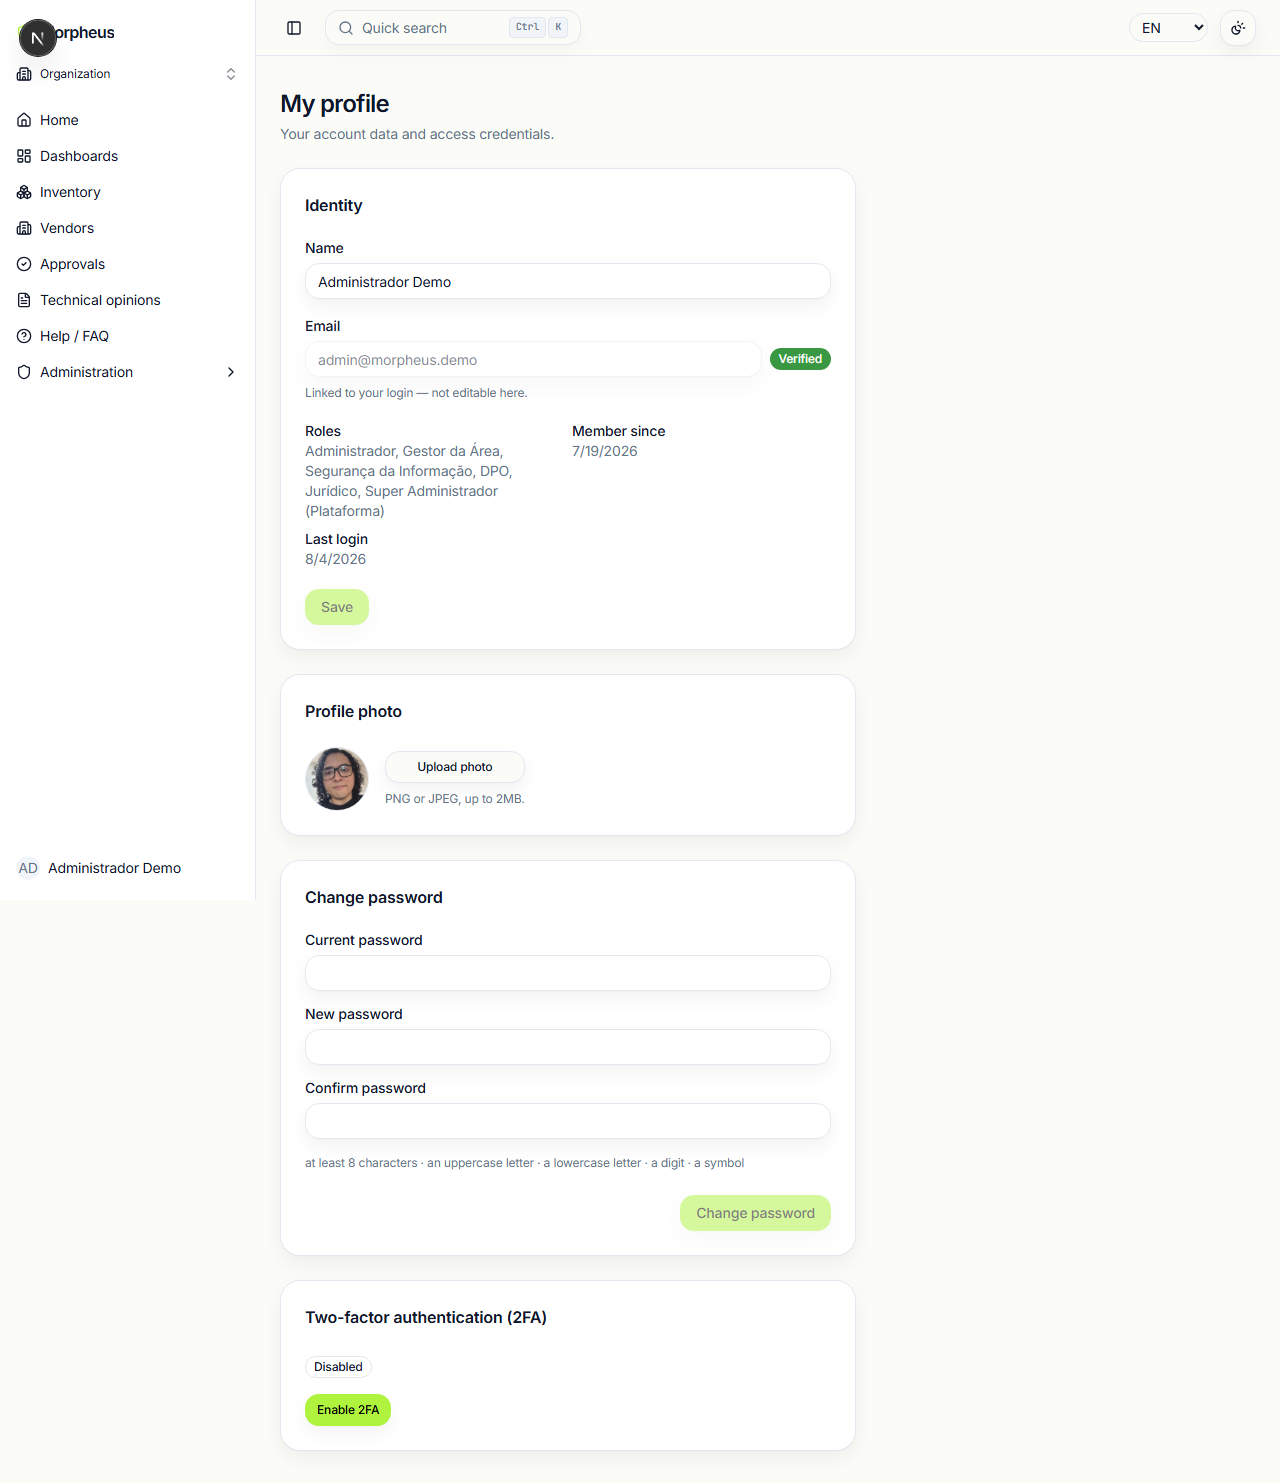
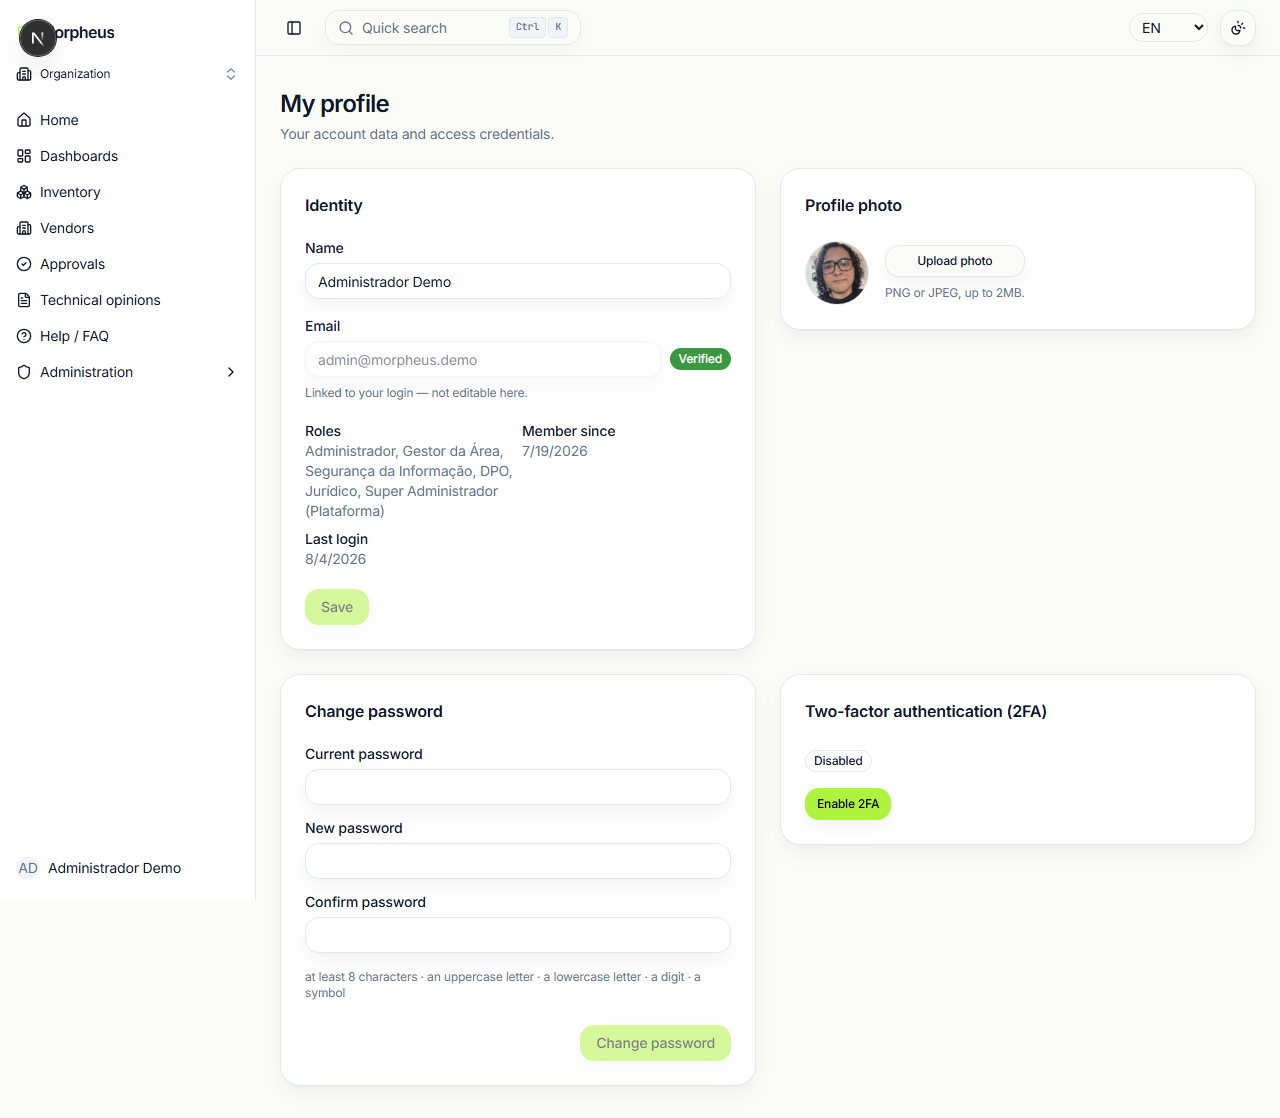
feat(profile): grade responsiva em /profile e /admin/platform-policy
Substitui a pilha vertical de cards por um grid de 2 colunas
(items-start, não stretch, pra acomodar a altura variável do card de
2FA) - reduz o scroll sem esconder nada atrás de aba. Mesmo
tratamento aplicado a /admin/platform-policy (3 seções, mesmo
sintoma). Corrige de brinde um bug pequeno: o loader não esperava
passwordlessPolicy carregar. Screenshots do README regenerados
(mudança de UX).

diff --git a/apps/web/src/app/[locale]/(app)/admin/platform-policy/page.tsx b/apps/web/src/app/[locale]/(app)/admin/platform-policy/page.tsx
@@ -260,43 +260,41 @@ function PlatformPolicyContent() {
 
       {error && <p className="text-sm text-destructive">{error}</p>}
 
-      {!error && (!policy || !twoFactorPolicy) && (
+      {!error && (!policy || !twoFactorPolicy || !passwordlessPolicy) && (
         <div className="flex justify-center py-8">
           <Loader2 className="animate-spin text-muted-foreground" />
         </div>
       )}
 
-      {policy && (
-        <Card className="max-w-xl">
-          <CardHeader>
-            <CardTitle className="text-base">{t("cardTitle")}</CardTitle>
-          </CardHeader>
-          <CardContent>
-            <PasswordPolicyForm policy={policy} onSaved={setPolicy} />
-          </CardContent>
-        </Card>
-      )}
+      {policy && twoFactorPolicy && passwordlessPolicy && (
+        <div className="grid grid-cols-1 items-start gap-6 lg:grid-cols-2">
+          <Card>
+            <CardHeader>
+              <CardTitle className="text-base">{t("cardTitle")}</CardTitle>
+            </CardHeader>
+            <CardContent>
+              <PasswordPolicyForm policy={policy} onSaved={setPolicy} />
+            </CardContent>
+          </Card>
 
-      {twoFactorPolicy && (
-        <Card className="max-w-xl">
-          <CardHeader>
-            <CardTitle className="text-base">{t("twoFactorCardTitle")}</CardTitle>
-          </CardHeader>
-          <CardContent>
-            <TwoFactorPolicyForm policy={twoFactorPolicy} onSaved={setTwoFactorPolicy} />
-          </CardContent>
-        </Card>
-      )}
+          <Card>
+            <CardHeader>
+              <CardTitle className="text-base">{t("twoFactorCardTitle")}</CardTitle>
+            </CardHeader>
+            <CardContent>
+              <TwoFactorPolicyForm policy={twoFactorPolicy} onSaved={setTwoFactorPolicy} />
+            </CardContent>
+          </Card>
 
-      {passwordlessPolicy && (
-        <Card className="max-w-xl">
-          <CardHeader>
-            <CardTitle className="text-base">{t("passwordlessCardTitle")}</CardTitle>
-          </CardHeader>
-          <CardContent>
-            <PasswordlessPolicyForm policy={passwordlessPolicy} onSaved={setPasswordlessPolicy} />
-          </CardContent>
-        </Card>
+          <Card>
+            <CardHeader>
+              <CardTitle className="text-base">{t("passwordlessCardTitle")}</CardTitle>
+            </CardHeader>
+            <CardContent>
+              <PasswordlessPolicyForm policy={passwordlessPolicy} onSaved={setPasswordlessPolicy} />
+            </CardContent>
+          </Card>
+        </div>
       )}
     </div>
   );

diff --git a/apps/web/src/app/[locale]/(app)/profile/page.tsx b/apps/web/src/app/[locale]/(app)/profile/page.tsx
@@ -98,7 +98,7 @@ function IdentityCard({
   }
 
   return (
-    <Card className="max-w-xl">
+    <Card>
       <CardHeader>
         <CardTitle className="text-base">{t("identityCardTitle")}</CardTitle>
       </CardHeader>
@@ -268,7 +268,7 @@ function AvatarCard({
   }
 
   return (
-    <Card className="max-w-xl">
+    <Card>
       <CardHeader>
         <CardTitle className="text-base">{t("avatarCardTitle")}</CardTitle>
       </CardHeader>
@@ -316,7 +316,7 @@ function PasswordCard({ profile }: { profile: OwnProfile }) {
   const changePasswordT = useTranslations("ChangePassword");
 
   return (
-    <Card className="max-w-xl">
+    <Card>
       <CardHeader>
         <CardTitle className="text-base">{changePasswordT("dialogTitle")}</CardTitle>
       </CardHeader>
@@ -441,7 +441,7 @@ function TwoFactorCard({
   }
 
   return (
-    <Card className="max-w-xl">
+    <Card>
       <CardHeader>
         <CardTitle className="text-base">{t("twoFactorCardTitle")}</CardTitle>
       </CardHeader>
@@ -625,7 +625,10 @@ function ProfileContent() {
       )}
 
       {profile && (
-        <div className="flex flex-col gap-6">
+        // items-start (não stretch): cada card tem altura própria e variável
+        // (o card de 2FA cresce bastante durante o wizard de setup) - forçar
+        // altura igual entre pares deixaria espaço vazio artificial.
+        <div className="grid grid-cols-1 items-start gap-6 lg:grid-cols-2">
           <IdentityCard profile={profile} onSaved={setProfile} />
           <AvatarCard profile={profile} onUploaded={setProfile} />
           <PasswordCard profile={profile} />

diff --git a/docs/changelog/2026-08.md b/docs/changelog/2026-08.md
@@ -876,3 +876,27 @@ ver [`../CHANGELOG.md`](../CHANGELOG.md) para o índice completo.
   - Milestone "Login passwordless" fechado após o merge desta fase - fecha o backlog de Autenticação
     aberto em 2026-07-26 (política de senha → perfil → 2FA → aprovação de inventário manual →
     passwordless, os 5 itens do arco de autenticação/segurança da conta, todos completos).
+- **Reestruturação de layout: `/profile` e `/admin/platform-policy` (grade em vez de pilha
+  vertical).** Item do backlog aberto em 2026-08-02 ("`/profile` está longo demais"), priorizado
+  antes da auditoria de FAQ a pedido do usuário. Escopado via `AskUserQuestion`: grade responsiva
+  (não abas) - reduz scroll sem esconder nada atrás de clique; escopo estendido a
+  `/admin/platform-policy` na mesma rodada, mesmo sintoma (3 seções empilhadas desde a Fase 3 do
+  passwordless).
+  - `profile/page.tsx`: os 4 cards (Identidade+e-mail, Foto, Senha, 2FA) saem de um `flex flex-col`
+    empilhado pra um `grid grid-cols-1 lg:grid-cols-2 items-start` - `items-start` (não o `stretch`
+    padrão do grid) é o que evita esticar todos os cards da fileira até a altura do mais alto, já que
+    o card de 2FA varia bastante de altura (idle vs. wizard de setup com QR code). `max-w-xl` removido
+    dos 4 `<Card>` (o próprio grid já limita a largura).
+  - `admin/platform-policy/page.tsx`: mesmo tratamento nas 3 seções (senha, 2FA, passwordless).
+    Também corrigido, no mesmo bloco, um bug pequeno pré-existente da Fase 5 do passwordless: a
+    condição do loader (`!policy || !twoFactorPolicy`) nunca checava `!passwordlessPolicy` - o
+    spinner podia sumir antes da 3ª política terminar de carregar.
+  - **Validado via Playwright, três viewports**: 1440px (grade 2 colunas, ambas as telas), 500px
+    (volta a empilhar em 1 coluna sem quebra - fallback `grid-cols-1` no mobile). Nenhuma mutação de
+    estado necessária pra essa checagem (só leitura).
+  - **Gatilho de portfólio (mudança de UX)**: `profile.png`/`-en` e `admin-platform-policy.png`/`-en`
+    regenerados nos mesmos estados reais já usados na Fase 7 do passwordless (e-mail verificado,
+    toggle ligado) pra refletir o novo layout - texto do README não mudou (legendas genéricas,
+    continuam válidas), só as imagens.
+  - `pnpm --filter @morpheus/web lint` (escopado aos 2 arquivos tocados) / `typecheck` / `build`
+    verdes.
